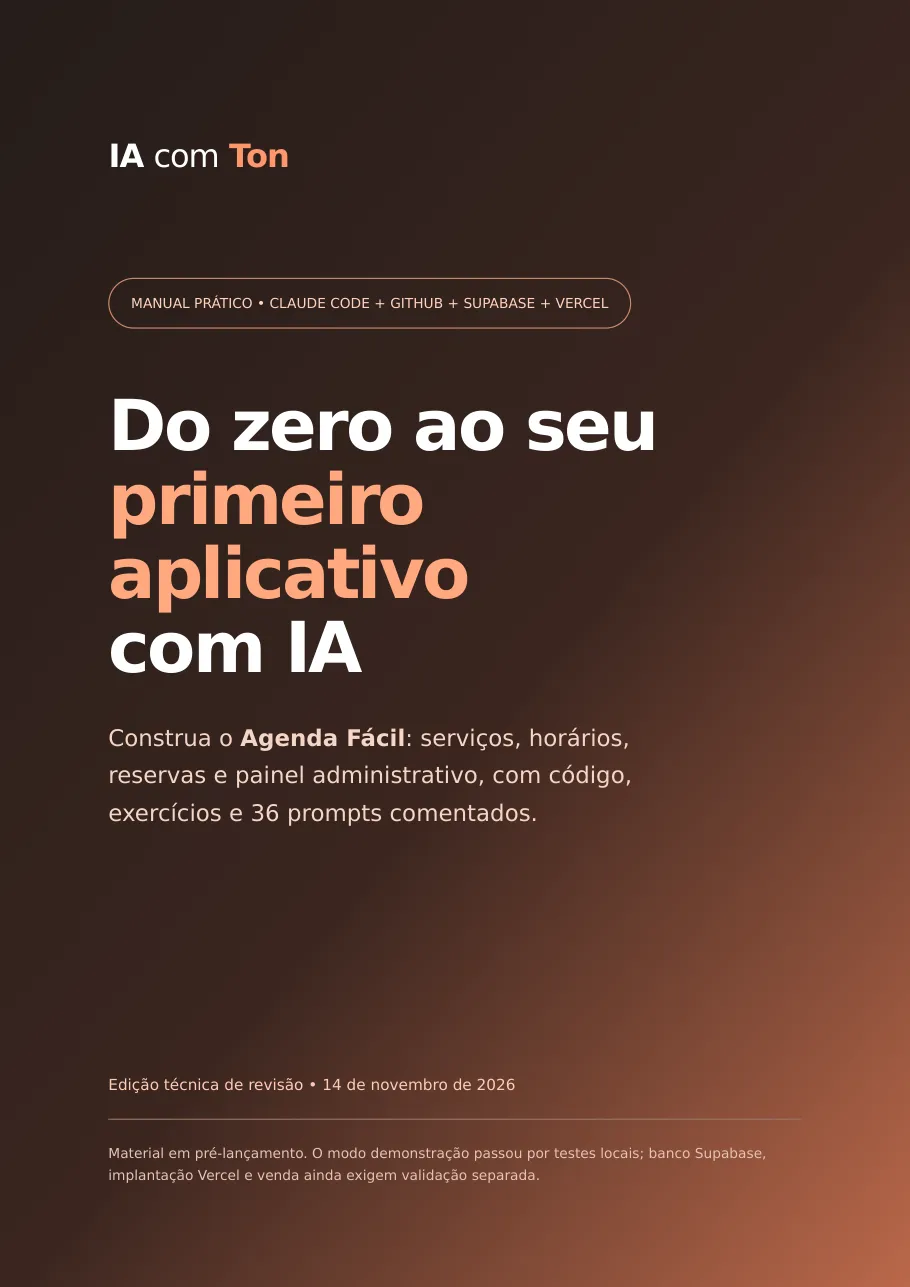
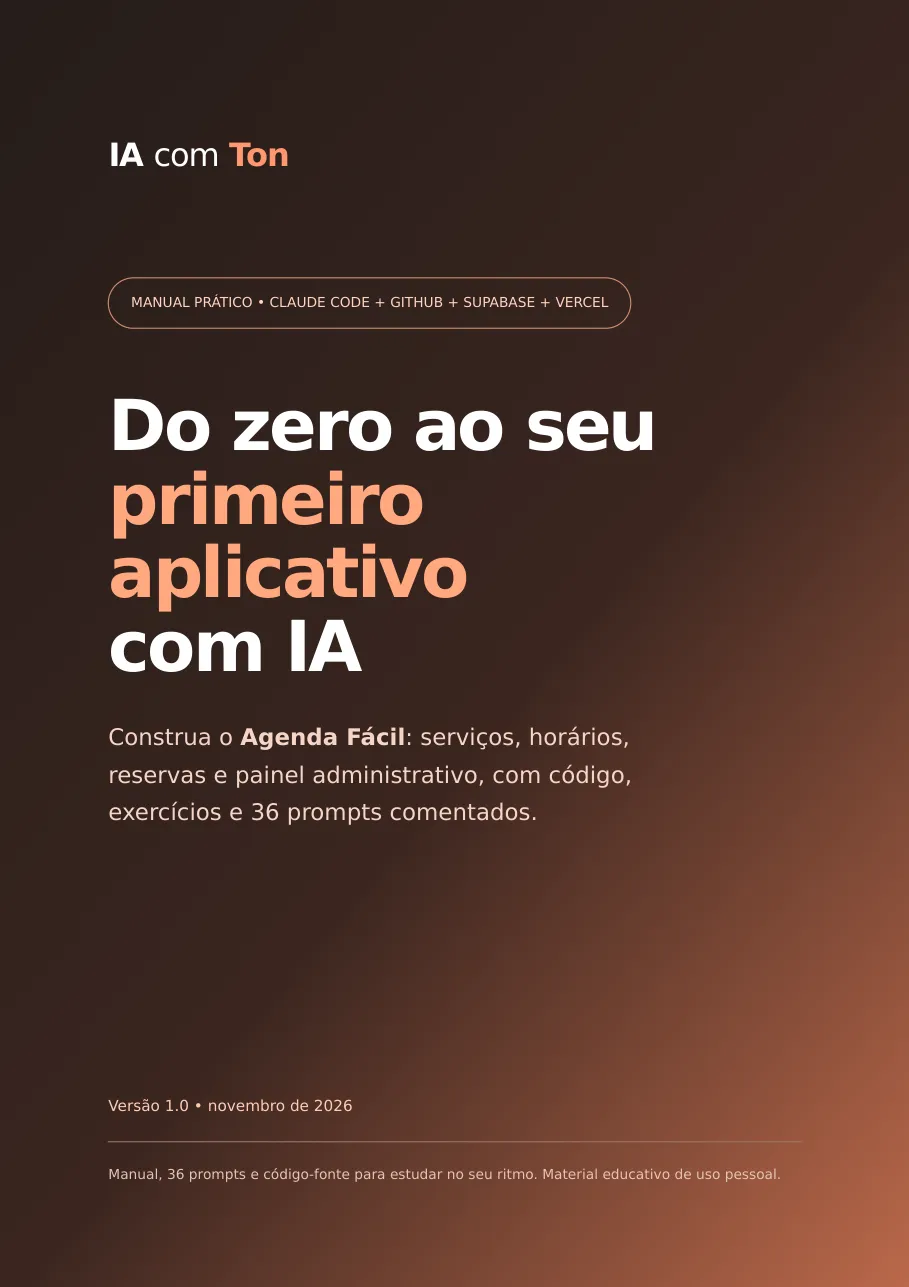
Agenda Fácil: página com o manual v1.0 (49 páginas) e imagens novas do manual
- Contagem de páginas 38 → 49 (versão 1.0, com os 36 prompts dentro do manual).
- Capa e páginas internas renderizadas da v1.0 (sem o cabeçalho "0.8 / pré-lançamento").
- Página continua em preparação: noindex, sem Pixel, COMPRAR AGORA desativado.

diff --git a/aulas/agenda-facil.html b/aulas/agenda-facil.html
@@ -7,7 +7,7 @@
      Para abrir as vendas (só com OK expresso do dono), ver o roteiro no fim deste arquivo. -->
 <meta name="robots" content="noindex,nofollow">
 <title>Agenda Fácil: do zero ao seu primeiro aplicativo com IA · IA com Ton</title>
-<meta name="description" content="Material pago em PDF: manual de 38 páginas, 36 prompts e o código-fonte do app Agenda Fácil para aprender Claude Code, GitHub, Supabase e Vercel na prática.">
+<meta name="description" content="Material pago em PDF: manual de 49 páginas, 36 prompts e o código-fonte do app Agenda Fácil para aprender Claude Code, GitHub, Supabase e Vercel na prática.">
 <link rel="canonical" href="https://iacomton.com.br/aulas/agenda-facil.html">
 <meta property="og:type" content="website">
 <meta property="og:locale" content="pt_BR">
@@ -206,7 +206,7 @@
     <h2>O que vem no material</h2>
     <p class="intro">Compra única e acesso digital: três arquivos, entregues por e-mail logo após a confirmação do pagamento.</p>
     <div class="grade3">
-      <div class="cartao incluso"><span class="icone">PDF</span><div><h3>Manual em PDF</h3><p>38 páginas em 13 partes, com explicações, exercícios "Faça na prática", alertas de segurança e referências oficiais.</p></div></div>
+      <div class="cartao incluso"><span class="icone">PDF</span><div><h3>Manual em PDF</h3><p>49 páginas em 13 partes, com os 36 prompts comentados, explicações, exercícios "Faça na prática", alertas de segurança e referências oficiais.</p></div></div>
       <div class="cartao incluso"><span class="icone">36</span><div><h3>Biblioteca de 36 prompts</h3><p>Os prompts do manual em arquivo de texto (.md), com quando usar e como avaliar a resposta, para copiar e adaptar.</p></div></div>
       <div class="cartao incluso"><span class="icone">ZIP</span><div><h3>Código-fonte do app</h3><p>O Agenda Fácil completo em HTML, CSS e JavaScript, com modo demonstração para rodar no navegador.</p></div></div>
       <div class="cartao incluso"><span class="icone">SQL</span><div><h3>Scripts de apoio</h3><p>Script SQL do Supabase (tabelas, regras de acesso RLS e reserva sem conflito) e 10 testes automatizados, dentro do ZIP.</p></div></div>
@@ -237,7 +237,7 @@
     <p class="intro">Páginas reais do PDF.</p>
     <div class="grade3">
       <figure><img src="agenda-facil/manual-ferramentas.webp" width="910" height="1287" loading="lazy" alt="Página do manual: As quatro ferramentas"><figcaption>Parte 01 · As quatro ferramentas</figcaption></figure>
-      <figure><img src="agenda-facil/manual-claude-code.webp" width="910" height="1287" loading="lazy" alt="Página do manual: Claude Code, trabalhar com um agente, com prompt da etapa"><figcaption>Parte 04 · Claude Code e os prompts da etapa</figcaption></figure>
+      <figure><img src="agenda-facil/manual-claude-code.webp" width="910" height="1287" loading="lazy" alt="Página do manual: Claude Code, trabalhar com um agente"><figcaption>Parte 04 · Claude Code: trabalhar com um agente</figcaption></figure>
       <figure><img src="agenda-facil/manual-reservas.webp" width="910" height="1287" loading="lazy" alt="Página do manual: Reservas sem conflito"><figcaption>Parte 08 · Reservas sem conflito</figcaption></figure>
     </div>
   </div>
@@ -359,7 +359,7 @@
       <div>
         <h2 style="color:#fff">Agenda Fácil · material completo</h2>
         <ul class="lista">
-          <li>Manual em PDF, 38 páginas</li>
+          <li>Manual em PDF, 49 páginas (versão 1.0)</li>
           <li>Biblioteca de 36 prompts em arquivo editável</li>
           <li>Código-fonte do app, scripts de apoio (SQL e testes) e instruções práticas</li>
           <li>Compra única e acesso digital, sem mensalidade</li>
@@ -615,7 +615,7 @@
 <!--
 ROTEIRO PARA ABRIR AS VENDAS (somente com OK expresso do dono):
 1. Dono define o preço (ex.: R$ 97,00 = 9700 centavos) e aprova esta página.
-2. Trocar os arquivos v0.8 pela versão final no bucket privado iacomton-produtos e em iacomton_aula_arquivos (SHA-256 conferido).
+2. [FEITO 14/11/2026] Arquivos v1.0 no bucket privado iacomton-produtos/agenda-facil/v1.0/ e em iacomton_aula_arquivos (SHA-256 conferido).
 3. Publicar os textos legais (modelos/textos-legais-compras.md) em termos.html e privacidade.html.
 4. SQL: update iacomton_aulas set preco_centavos=<centavos>, versao='<versão final>', ativa=true where slug='agenda-facil';
    (NUNCA ativa sem preço: sem preço, a iacomton-lead trataria como aula grátis.)
